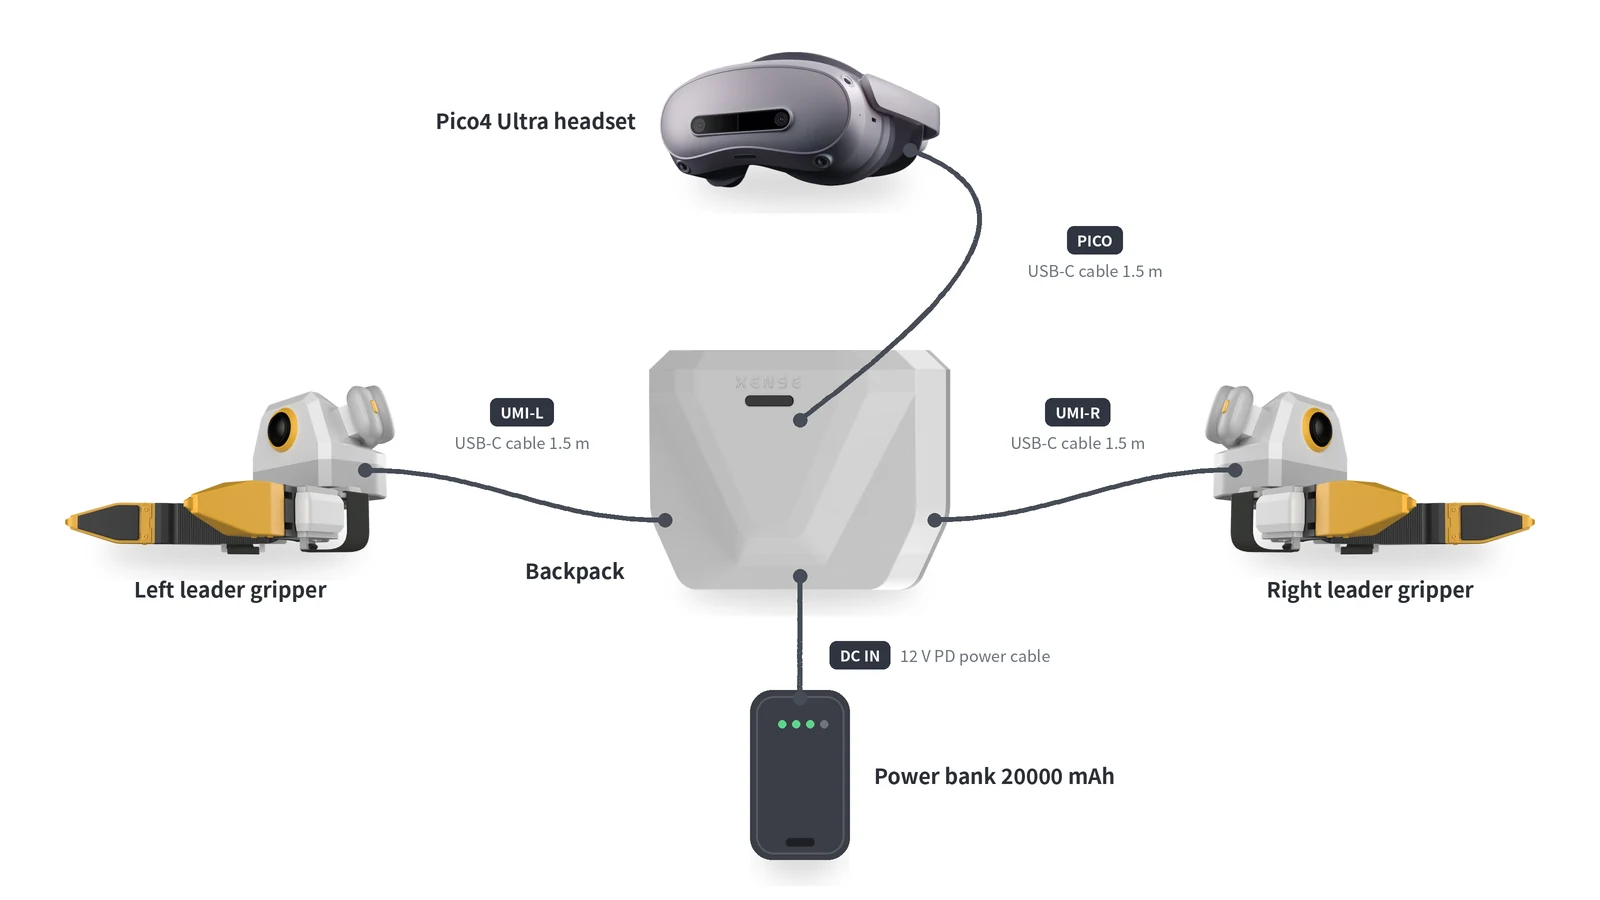
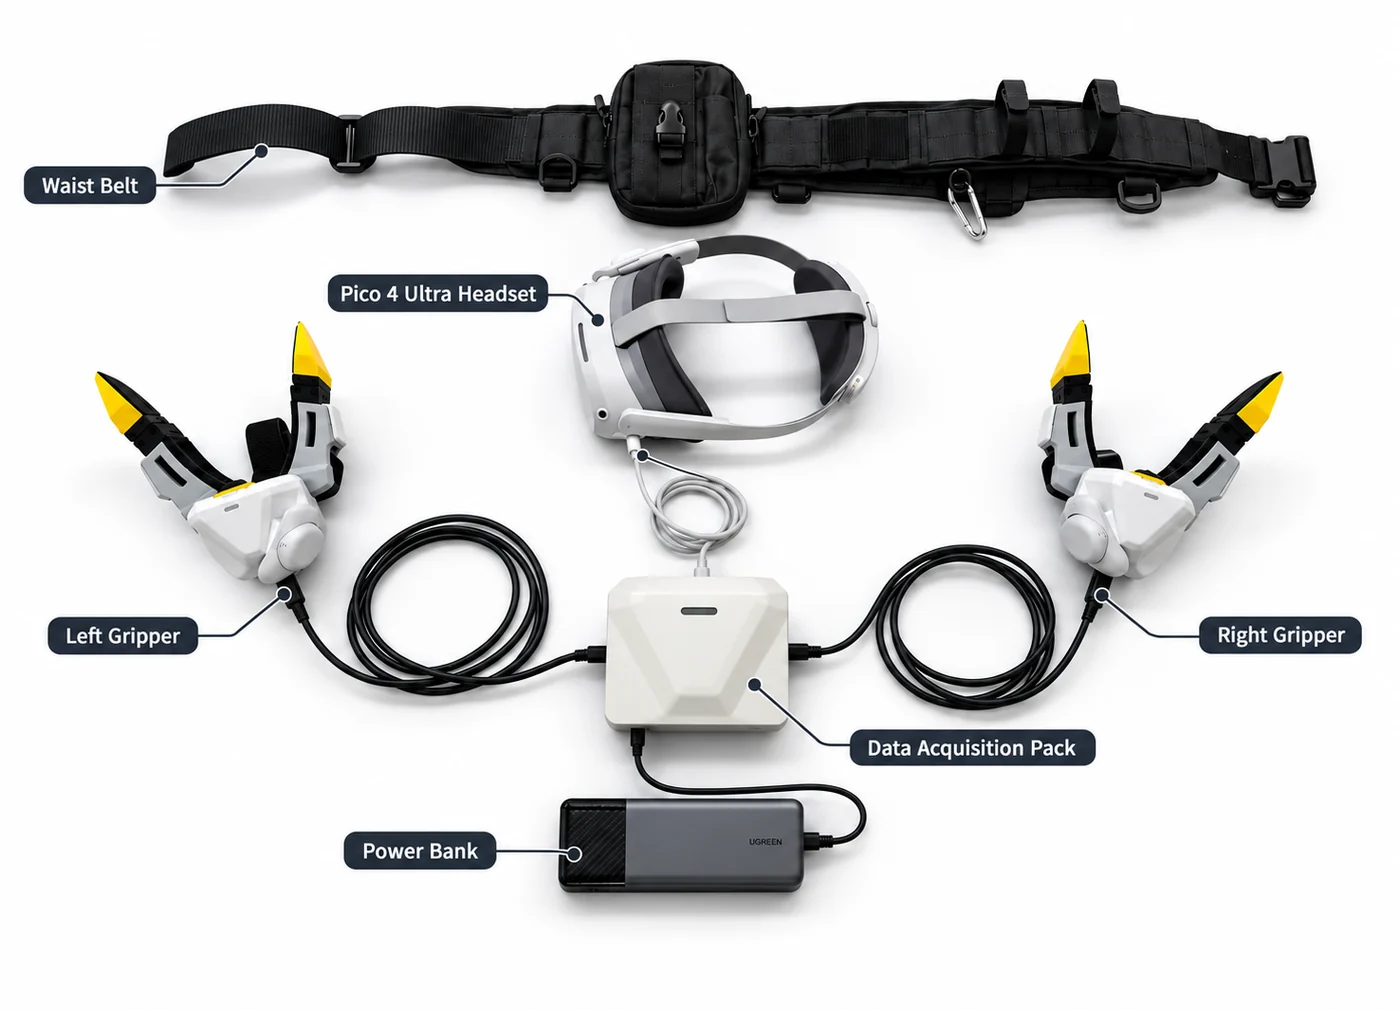
docs: 英文页换成英文界面截图与英文标注接线图（中文页不变）
背包控制台、Pico 系统设置与追踪器、接线图、认识数采背包首图改为 -en 版本；
Pico 截图补红框，网络页两张截图的热点密码打码；中文页认识数采背包首图换新。

diff --git a/docs/common/pico4.en.md b/docs/common/pico4.en.md
@@ -20,7 +20,7 @@
 
 2. Update the system: a new unit ships on an older build and must be updated before you pair trackers or install the app. Join a WiFi network with internet access, go to Settings → System update and tap "Download and install" to reach Pico OS 5.15.5.U or later (about 1.9GB).
 
-    ![System update to 5.15.5.U](../assets/pico4/system-update.webp){ width="560" }
+    ![System update to 5.15.5.U](../assets/pico4/system-update-en.webp){ width="560" }
 
 ## System settings: developer mode and power policy {#pico-system}
 
@@ -28,9 +28,9 @@
 
     <div class="tc-pair" markdown>
 
-    ![Tap the software version repeatedly](../assets/pico4/devmode-tap-version.webp)
+    ![Tap the software version repeatedly](../assets/pico4/devmode-tap-version-en.webp)
 
-    ![Developer options → turn on USB debugging](../assets/pico4/devmode-usb-debug.webp)
+    ![Developer options → turn on USB debugging](../assets/pico4/devmode-usb-debug-en.webp)
 
     </div>
 
@@ -39,7 +39,7 @@
     2. Screen off = Never;
     3. Battery and charging status icon at the bottom = "Always show", to check the charge mid-session.
 
-    ![Final power policy settings](../assets/pico4/power-step4-final.webp){ width="480" }
+    ![Final power policy settings](../assets/pico4/power-step4-final-en.webp){ width="480" }
 
 !!! warning "Sleep first, screen-off second; the order cannot be reversed"
     Screen-off is bounded by system sleep: while sleep is still at its default, screen-off's "Never" is clamped back to a finite value, so it looks set but is not in effect. Leave Settings and come back to confirm both read "Never".
@@ -56,11 +56,11 @@ The APK is named `XTac-UMI-XR-<version>.apk`; the current version is 0.3.2. Inst
 
 2. Put the headset on, tap "File Manager" on the taskbar, and open the "Download" folder.
 
-    ![File Manager → Download](../assets/pico4/install-step2-filemanager.webp){ width="480" }
+    ![File Manager → Download](../assets/pico4/install-step2-filemanager-en.webp){ width="480" }
 
 3. Tap the APK and choose "Install" in the "Install this app?" dialog; XTac-UMI XR then appears in the "Library".
 
-    ![Confirming the install](../assets/pico4/install-step3-confirm.webp){ width="480" }
+    ![Confirming the install](../assets/pico4/install-step3-confirm-en.webp){ width="480" }
 
 
 ## Network connection {#pico-network}
@@ -75,7 +75,7 @@ On both editions, set USB up on the headset first:
 - **Settings path**: Settings → Developer options → enable "USB debugging" → set "USB connection" to "File transfer".
 - **Re-check after re-plugging**: it reverts to the default after a USB re-plug; if you cannot select it, reboot the Pico.
 
-![USB connection set to file transfer](../assets/pico4/usb-shared-network.webp){ width="520" }
+![USB connection set to file transfer](../assets/pico4/usb-shared-network-en.webp){ width="520" }
 
 === "Backpack Kit"
 
@@ -109,13 +109,13 @@ Before pairing:
 
 1. Open the "Motion Tracker" app from the Library and tap the top-right icon on the main screen to enter pairing.
 
-    ![The top-right icon opens the pairing screen](../assets/pico4/tracker-pair-entry.webp){ width="440" }
+    ![The top-right icon opens the pairing screen](../assets/pico4/tracker-pair-entry-en.webp){ width="440" }
 
 2. Hold the tracker's power button for about 6 seconds, until the indicator alternates blue and red (Bluetooth pairing mode).
 3. Tap "Start pairing". The headset beeps on success and the tracker appears in "My trackers" with its battery level and number (e.g. `Tracker 150399`), marked "Connected".
 4. Bind one per gripper; the top of the list should read "2 paired".
 
-    ![Motion Tracker app: 2 paired](../assets/pico4/tracker-bind.webp){ width="440" }
+    ![Motion Tracker app: 2 paired](../assets/pico4/tracker-bind-en.webp){ width="440" }
 
 !!! warning "Power-on is a short press; only pairing needs the hold"
     Everyday power-on is a short press until the blue light comes on; that is not pairing mode and the app will not find it. First-time binding needs the ~6s hold until it alternates blue and red.
@@ -154,9 +154,9 @@ Once bound, open "Motion Tracking" on the headset → settings → "Tracking mod
 
 <div class="tc-pair" markdown>
 
-![Motion tracking settings: Tracking mode](../assets/pico4/tracker-mode1-setting.webp)
+![Motion tracking settings: Tracking mode](../assets/pico4/tracker-mode1-setting-en.webp)
 
-![Pick standalone tracking and confirm](../assets/pico4/tracker-mode2-pick.webp)
+![Pick standalone tracking and confirm](../assets/pico4/tracker-mode2-pick-en.webp)
 
 </div>
 

diff --git a/docs/backpack/monitor-record.en.md b/docs/backpack/monitor-record.en.md
@@ -7,7 +7,7 @@ description: Before recording, confirm the views, poses, gripper opening and dis
 
 This page covers the "Live monitor" page of the XTac-UMI Collector console (below, "the console"). Gripper button gestures, LED patterns and voice announcement wording are in [Gripper buttons and LEDs](gripper.md#buttons-leds); this page only links to them.
 
-![The live monitor page](../assets/backpack/monitor-live.webp)
+![The live monitor page](../assets/backpack/monitor-live-en.webp)
 
 - **Top bar**: device status (bandwidth, CPU, memory, disk, cameras, live time, recording time, system).
 - **Middle**: the side columns each hold one gripper's fisheye view plus its left-finger / right-finger visuotactile feeds; the centre column holds the headset's stereo pair, the "arms / head pose" 3D view and, below it, the left and right gripper opening-angle cards.
@@ -41,7 +41,7 @@ A new project fixes its **capture config** at creation. **Once created it is fro
 - **Wrist fisheye**: whether to rectify its distortion on export.
 - **Upload backend**: you can bind one configured at [System → Upload configuration](system.md#upload) as the project's default for uploads; without a binding you pick one at upload time.
 
-![Creating a project](../assets/backpack/new-project.webp){ width="360" }
+![Creating a project](../assets/backpack/new-project-en.webp){ width="360" }
 
 The fields for a new task:
 
@@ -52,7 +52,7 @@ The fields for a new task:
 | Target count | How many takes this task should collect; may be left blank |
 | Target duration (minutes) | How long this task should collect for; may be left blank |
 
-![Creating a task](../assets/backpack/new-task-live.webp)
+![Creating a task](../assets/backpack/new-task-live-en.webp)
 
 - With targets blank, only the count collected so far is shown, with no progress bar.
 - **The target count is a hard gate**: once met, recording is refused, from both the console button and the gripper buttons.
@@ -147,6 +147,6 @@ Projects page rows and mobile cards show four states:
 - **Console**: "Delete previous and re-record" deletes the current task's most recent entry and immediately starts recording, with no second confirmation; unavailable while recording.
 - **Earlier entries**: click "Delete" on its row in the [Projects page](projects-export.md). The confirmation lists the number, duration and size, and deletes its MCAP and H264 export files with it. This cannot be undone.
 
-![Selecting an entry to delete on the Projects page](../assets/backpack/delete-select.webp)
+![Selecting an entry to delete on the Projects page](../assets/backpack/delete-select-en.webp)
 
-![The delete confirmation](../assets/backpack/delete-confirm.webp)
+![The delete confirmation](../assets/backpack/delete-confirm-en.webp)

diff --git a/docs/backpack/system.en.md b/docs/backpack/system.en.md
@@ -19,7 +19,7 @@ The interface language is also switched here; by default it follows the browser.
 
 ## Device info {#device-info}
 
-![Device info page](../assets/backpack/device-info.webp)
+![Device info page](../assets/backpack/device-info-en.webp)
 
 A read-only page; "Refresh" at the top right reloads it.
 
@@ -37,7 +37,7 @@ When to look here:
 
 ## Gripper {#gripper}
 
-![Gripper page](../assets/backpack/gripper.webp)
+![Gripper page](../assets/backpack/gripper-en.webp)
 
 Travel calibration normalises the gripper opening to 0–1: write the zero when closed and the maximum travel when fully open. The values are stored in the gripper, survive power loss and moving to another backpack, so each gripper needs calibrating once; the console and the Developer Kit calibration script write the same values. When recalibration is needed is covered in the Developer Kit's [Gripper calibration](../pc/calibration.md#41).
 
@@ -57,7 +57,7 @@ One gripper at a time, without skipping steps:
 
 ### Current project capture config {#capture-mode}
 
-![Current project capture config](../assets/backpack/capture-mode.webp)
+![Current project capture config](../assets/backpack/capture-mode-en.webp)
 
 Shows the current project's capture config, read-only. These are chosen when you [create the project](monitor-record.md#project-task) and cannot be changed afterwards.
 
@@ -108,7 +108,7 @@ Each line has a "Preview" button that tells you where the sound came out.
 
 ## Upload configuration {#upload}
 
-![Upload configuration page](../assets/backpack/upload.webp)
+![Upload configuration page](../assets/backpack/upload-en.webp)
 
 Save remote upload accounts here; you can keep several, each with its own name. Bind one when creating a project and uploads no longer ask for the account.
 
@@ -140,7 +140,7 @@ Credentials are not shown again after saving; leaving a field blank when editing
 
 ## Network {#wifi}
 
-![Network page](../assets/backpack/wifi.webp)
+![Network page](../assets/backpack/wifi-en.webp)
 
 The ways to open the console are in [Network and console access](network.md); this section only covers changing settings.
 
@@ -175,7 +175,7 @@ Defaults to automatic (DHCP) and works as soon as it is plugged into a router. C
 
 ## Camera profiles {#camera-profiles}
 
-![Camera profiles page](../assets/backpack/camera-profiles.webp)
+![Camera profiles page](../assets/backpack/camera-profiles-en.webp)
 
 A camera profile pack (`.xpack`) is built in at the factory; import one only when technical support provides a new pack.
 

diff --git a/docs/backpack/unbox-connect.en.md b/docs/backpack/unbox-connect.en.md
@@ -60,7 +60,7 @@ The grippers and headset are wired the same way either way; only the backpack's 
 
 ### Adapter power {#adapter}
 
-![Adapter wiring: left and right grippers to the sides of the backpack, the headset's Type-C to the PICO port, the adapter to the DC port](../assets/product/backpack-wiring-adapter.webp)
+![Adapter wiring: left and right grippers to the sides of the backpack, the headset's Type-C to the PICO port, the adapter to the DC port](../assets/product/backpack-wiring-adapter-en.webp)
 
 1. Connect the left and right leader grippers to the backpack's `UMI-L` and `UMI-R` ports.
 2. Connect the headset to the backpack's `PICO` port with the headset cable (Pico → Pack).
@@ -68,7 +68,7 @@ The grippers and headset are wired the same way either way; only the backpack's 
 
 ### Power-bank power {#powerbank}
 
-![Power-bank wiring: left and right grippers to the sides of the backpack, the headset to the PICO port, the power bank to the DC port over the 0.3m 12V PD power cable](../assets/product/backpack-wiring-powerbank.webp)
+![Power-bank wiring: left and right grippers to the sides of the backpack, the headset to the PICO port, the power bank to the DC port over the 0.3m 12V PD power cable](../assets/product/backpack-wiring-powerbank-en.webp)
 
 1. Take out the power bank in the box (20000mAh, 45W).
 2. Connect the grippers and headset as for [adapter power](#adapter).

diff --git a/docs/backpack/network.en.md b/docs/backpack/network.en.md
@@ -16,7 +16,7 @@ The body label shows the device's SN, hotspot name and password, IP and mDNS add
 
 Cable the tablet to the backpack's front `HOST1` or `HOST2` port and unlock the tablet. Once connected, the backpack opens System → Network on the tablet by itself, with no WiFi to join and no address to type.
 
-![The Network page the tablet opens over USB](../assets/backpack/tablet-usb-network-settings.webp)
+![The Network page the tablet opens over USB](../assets/backpack/tablet-usb-network-settings-en.webp)
 
 - **Plug and play**: the bundled tablet is authorised on the production line and works as soon as USB is plugged in.
 - **Re-authorising**: after a factory reset of the tablet or revoked USB debugging authorisation it no longer opens; re-authorise it as in [Troubleshooting](troubleshooting.md#tablet-adb).
@@ -79,7 +79,7 @@ The IP drop-down at the left of the top bar gathers every way into this unit. Af
 - **Collapsed**: shows only "the one address you should use to reach it right now", the first available of wired > wireless > hotspot.
 - **Expanded**: click to see all network details.
 
-![The top-bar network drop-down](../assets/backpack/network-dropdown-live.webp)
+![The top-bar network drop-down](../assets/backpack/network-dropdown-live-en.webp)
 
 ## Choosing a method by scenario {#choose}
 

diff --git a/docs/product/backpack.en.md b/docs/product/backpack.en.md
@@ -2,7 +2,7 @@
 
 The **XTac-UMI Backpack** is the Backpack Kit's collection host, worn by the operator: the grippers and headset plug straight in, a tablet browser is the console, and collection, playback and export all happen on the backpack.
 
-![The XTac-UMI Backpack's front panel](../assets/product/backpack-ports-front.webp){ width="720" }
+![The XTac-UMI Backpack](../assets/product/backpack-ports-front-en.webp){ width="720" }
 
 [Quickstart](../backpack/quickstart.md){ .md-button .md-button--primary }
 [Compare the two kits](editions.md){ .md-button }
@@ -86,11 +86,11 @@ Open the backpack's address in a browser to reach the console; it has four pages
 
 === "Live monitor"
 
-    ![The live monitor page](../assets/backpack/monitor-live.webp)
+    ![The live monitor page](../assets/backpack/monitor-live-en.webp)
 
 === "Projects"
 
-    ![The projects page](../assets/backpack/project-list-live.webp)
+    ![The projects page](../assets/backpack/project-list-live-en.webp)
 
 Recording is mainly driven by the gripper buttons: long-press right to start, long-press left to stop, with no browser needed, plus LED and voice feedback; see [Gripper buttons, LEDs and voice](../backpack/gripper.md).
 

diff --git a/docs/backpack/index.en.md b/docs/backpack/index.en.md
@@ -16,7 +16,7 @@ Welcome to the XTac-UMI Backpack. This page is the getting-started guide for the
 
 The box contents are in [Box contents and wiring](../product/editions.md#kit); check them against [Unboxing, cabling and power](unbox-connect.md#unbox). To use your own x86 workstation and build entirely on LeRobot, see the [Developer Kit](../pc/index.md); the differences are in [Product line and configuration comparison](../product/editions.md).
 
-![The console's live monitor page: every camera, the visuotactile images and the poses on one screen](../assets/backpack/monitor-live.webp)
+![The console's live monitor page: every camera, the visuotactile images and the poses on one screen](../assets/backpack/monitor-live-en.webp)
 
 The console shows every camera, the visuotactile images and the poses on one screen, with the gripper opening updated in real time; recording state, free disk space and tracker-loss alerts are on the same screen, viewable from a tablet or phone. What to check before recording is in [Checks on the Live monitor page](monitor-record.md#checks), and the product introduction is in [The Backpack](../product/backpack.md).
 

diff --git a/docs/backpack/projects-export.en.md b/docs/backpack/projects-export.en.md
@@ -6,7 +6,7 @@ Manage recorded data on the console's Projects page: export a task as a LeRobot 
 
 The hierarchy is **project → task → recording**. Each recording shows frames, data size and [quality](playback.md#quality), with Playback and Delete at the end of the row.
 
-![The Projects page](../assets/backpack/project-list-live.webp)
+![The Projects page](../assets/backpack/project-list-live-en.webp)
 
 | Where | Actions |
 |---|---|
@@ -26,9 +26,9 @@ Click Export on a task row to open "Export task data":
 
 <div class="tc-pair" markdown>
 
-![The export dialog: precheck and picking recordings](../assets/backpack/export-precheck-live.webp)
+![The export dialog: precheck and picking recordings](../assets/backpack/export-precheck-live-en.webp)
 
-![The export dialog: destination, format and upload settings](../assets/backpack/export-options.webp)
+![The export dialog: destination, format and upload settings](../assets/backpack/export-options-en.webp)
 
 </div>
 

diff --git a/docs/product/backpack.md b/docs/product/backpack.md
@@ -2,7 +2,7 @@
 
 **XTac-UMI 数采背包**是背包版的采集主机，随采集人员背负移动：夹爪与头显直接接上，平板浏览器即控制台，采集、回放与导出都在背包上完成。
 
-![XTac-UMI 数采背包前面板](../assets/product/backpack-ports-front.webp){ width="720" }
+![XTac-UMI 数采背包](../assets/product/backpack-ports-front.webp){ width="720" }
 
 [一页速通](../backpack/quickstart.md){ .md-button .md-button--primary }
 [对比两种配置](editions.md){ .md-button }

diff --git a/docs/backpack/quickstart.en.md b/docs/backpack/quickstart.en.md
@@ -50,7 +50,7 @@ Before you hit record, confirm these three:
 - **Pose view**: follows your hands in real time, with left and right not swapped.
 - **Gripper opening**: follows the grippers as they open and close.
 
-![The live monitor page](../assets/backpack/monitor-live.webp)
+![The live monitor page](../assets/backpack/monitor-live-en.webp)
 
 If the record button is unavailable, the page states why; see [Recording gates](monitor-record.md#record-gates).
 

diff --git a/docs/backpack/playback.en.md b/docs/backpack/playback.en.md
@@ -8,7 +8,7 @@ You do not need to download a recording to review it: replay it in the console a
 
 Find the recording on the [Projects page](projects-export.md#projects) and click Playback at the end of its row. The phone layout has no playback page; use a tablet or computer.
 
-![The playback page](../assets/backpack/playback-live.webp)
+![The playback page](../assets/backpack/playback-live-en.webp)
 
 ## Playing {#controls}
 

diff --git a/docs/backpack/update.en.md b/docs/backpack/update.en.md
@@ -5,7 +5,7 @@ This page covers upgrading the console program and the gripper firmware:
 - **Console program**: import an upgrade bundle on System → System update.
 - **Gripper firmware**: flash it on System → Gripper; see [Gripper firmware](#gripper-firmware).
 
-![System update page](../assets/backpack/update.webp)
+![System update page](../assets/backpack/update-en.webp)
 
 ## Importing an upgrade bundle {#bundle}
 
